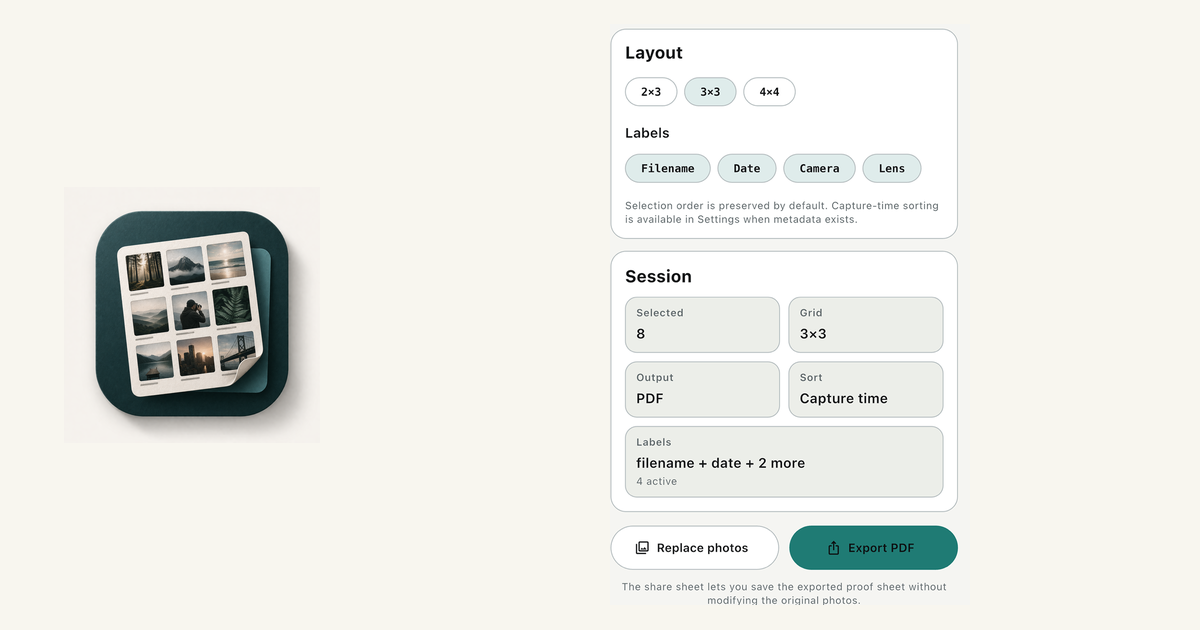
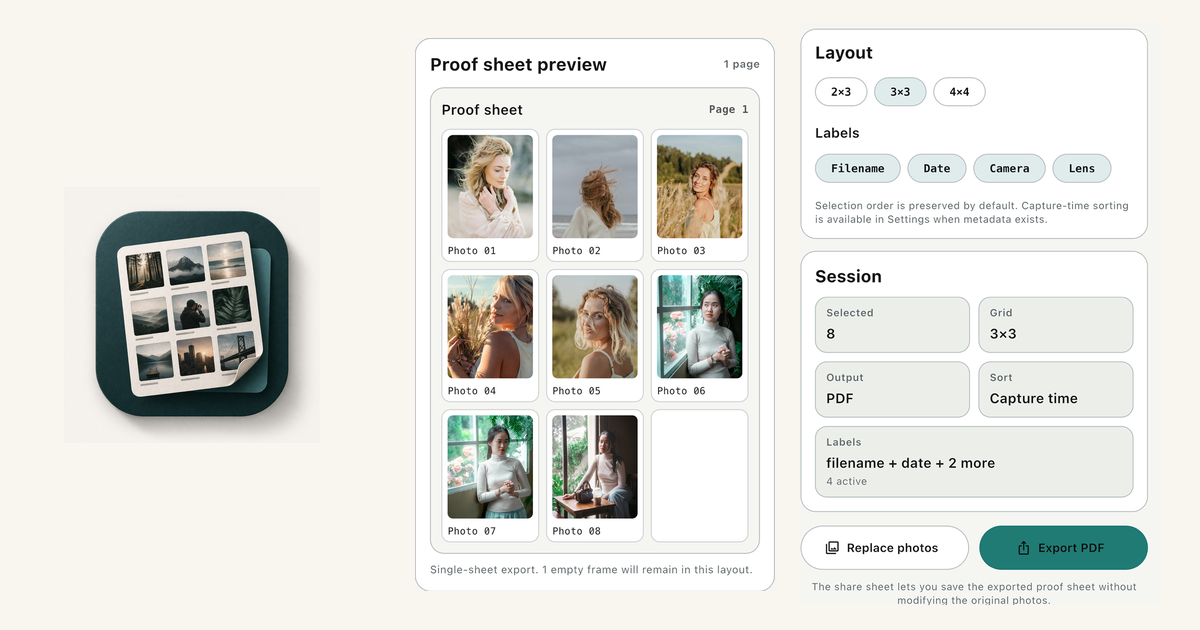
Add authentic Contact Sheet Maker output demonstration

diff --git a/index.html b/index.html
@@ -43,7 +43,7 @@
     </div>
   </header>
 
-  <main id="content" class="main"><div class="container"><section><div class="kicker">Monolyn Labs</div><h1>Practical apps for photos and everyday work.</h1><p class="lede">Make photo contact sheets, create printable lost-pet posters, and choose your best shots with focused iPhone apps. Explore each product, see real examples, and download on the App Store.</p><div class="chips" aria-label="Product principles"><span class="chip"><span class="chip-dot" aria-hidden="true"></span>Focused workflows</span><span class="chip"><span class="chip-dot" aria-hidden="true"></span>No ads</span><span class="chip"><span class="chip-dot" aria-hidden="true"></span>No third-party trackers</span></div><div class="actions"><a class="btn btn-primary" href="#featured">Explore iPhone apps</a><a class="btn btn-secondary" href="/products/">All products</a></div></section><section class="section" id="featured"><div class="section-head"><div><h2>Featured iPhone apps</h2><p>Focused tools that produce useful outputs.</p></div><a class="muted-link" href="/products/">Browse all products →</a></div><div class="grid"><article class="card glass strong"><div class="card-head"><div class="card-head-left"><img class="app-icon" src="/assets/products/contact-sheet-maker/icon.webp" width="44" height="44" alt="Contact Sheet Maker app icon" loading="lazy" decoding="async" /><div class="title"><a href="/products/contact-sheet-maker/" style="color: inherit; text-decoration: none;">Contact Sheet Maker</a></div></div><div class="badge live"><span class="dot" aria-hidden="true"></span>Available</div></div><p>Turn 6–36 selected photos into a clean proof sheet. Choose a grid, add labels, preview, then export PDF or JPEG with Pro.</p><div class="card-actions"><a class="btn btn-primary" href="/products/contact-sheet-maker/">Explore product</a><a class="btn btn-secondary" href="https://apps.apple.com/us/app/contact-sheet-maker/id6761720266" rel="noopener noreferrer">App Store</a></div></article><article class="card glass strong"><div class="card-head"><div class="card-head-left"><img class="app-icon" src="/assets/products/lost-pet-poster-maker/icon.webp" width="44" height="44" alt="Lost Pet Poster Maker app icon" loading="lazy" decoding="async" /><div class="title"><a href="/products/lost-pet-poster-maker/" style="color: inherit; text-decoration: none;">Lost Pet Poster Maker</a></div></div><div class="badge live"><span class="dot" aria-hidden="true"></span>Available</div></div><p>Create a missing-pet poster with a photo, last-seen details and contact information. Preview for free; PDF export and sharing require Pro.</p><a class="featured-preview" href="/products/lost-pet-poster-maker/#examples" aria-label="See the Lost Pet Poster Maker preview example"><img src="/assets/products/lost-pet-poster-maker/preview.webp" width="928" height="1263" alt="Lost Pet Poster Maker finished poster preview for Milo, with a dog photo and fictional contact details." loading="lazy" decoding="async" /></a><div class="card-actions"><a class="btn btn-primary" href="/products/lost-pet-poster-maker/">Explore product</a><a class="btn btn-secondary" href="https://apps.apple.com/us/app/lost-pet-poster-maker/id6777145276" rel="noopener noreferrer">App Store</a></div></article></div></section><section class="section"><div class="section-head"><div><h2>More photo tools</h2><p>Explore other available Monolyn apps.</p></div></div><div class="grid"><article class="card glass strong"><div class="card-head"><div class="card-head-left"><img class="app-icon" src="/assets/app-icons/grain_256.png" width="44" height="44" alt="" /><div class="title"><a href="https://apps.apple.com/us/app/film-grain-editor/id6755780302" style="color: inherit; text-decoration: none;">Film Grain Editor</a></div></div><div class="badge live"><span class="dot" aria-hidden="true"></span>Available</div></div><p>Apply film-grain presets and export a finished photo back to Photos.</p><div class="card-actions"><a class="btn btn-primary" href="https://apps.apple.com/us/app/film-grain-editor/id6755780302">Open in App Store</a></div></article><article class="card glass strong"><div class="card-head"><div class="card-head-left"><img class="app-icon" src="/assets/app-icons/best-shot_256.png" width="44" height="44" alt="" /><div class="title"><a href="/products/best-shot/" style="color: inherit; text-decoration: none;">Best Shot: Best Photo Picker</a></div></div><div class="badge live"><span class="dot" aria-hidden="true"></span>Available</div></div><p>Group similar photos, compare shots, and choose the keepers from each set.</p><div class="card-actions"><a class="btn btn-primary" href="/products/best-shot/">Explore product</a><a class="btn btn-secondary" href="https://apps.apple.com/us/app/best-shot-best-photo-picker/id6760355996" rel="noopener noreferrer">App Store</a></div></article><article class="card glass strong"><div class="card-head"><div class="card-head-left"><img class="app-icon" src="/assets/app-icons/trueportrait_256.png" width="44" height="44" alt="" /><div class="title"><a href="https://apps.apple.com/app/id6759202593" style="color: inherit; text-decoration: none;">True Portrait: Portrait Enhancer</a></div></div><div class="badge live"><span class="dot" aria-hidden="true"></span>Available</div></div><p>Focused local portrait enhancements with no required account or cloud upload.</p><div class="card-actions"><a class="btn btn-primary" href="https://apps.apple.com/app/id6759202593">Open in App Store</a></div></article></div></section><section class="section"><div class="section-head"><div><h2>Jira Cloud tools</h2><p>Jira tools for planning and delivery, separate from our consumer apps.</p></div></div><div class="grid"><article class="card glass"><div class="card-head"><div class="card-head-left"><img class="app-icon" src="/assets/app-icons/sprint-canvas_256.png" alt="" width="44" height="44" /><div class="title"><a href="/jira-sprint-capacity-planning/">Sprint Canvas for Jira</a></div></div><div class="badge live"><span class="dot" aria-hidden="true"></span>Available</div></div><p>Compare demand and capacity across three sprints inside Jira Cloud and spot missing estimates or assignments.</p><div class="card-actions"><a class="btn btn-primary" href="/jira-sprint-capacity-planning/">Overview</a><a class="btn btn-secondary" href="https://marketplace.atlassian.com/apps/186560902?tab=overview" rel="noopener noreferrer">Atlassian Marketplace</a></div></article></div></section><section class="section"><article class="glass strong cta-panel"><div class="kicker">Support and privacy</div><h2>Clear tools, clear support</h2><p>Find product guidance, privacy information and a direct way to ask for help.</p><div class="actions"><a class="btn btn-primary" href="/support/">Contact support</a><a class="btn btn-secondary" href="/privacy/">Privacy policy</a><a class="btn btn-secondary" href="/security/">Security</a></div></article></section></div></main>
+  <main id="content" class="main"><div class="container"><section><div class="kicker">Monolyn Labs</div><h1>Practical apps for photos and everyday work.</h1><p class="lede">Make photo contact sheets, create printable lost-pet posters, and choose your best shots with focused iPhone apps. Explore each product, see real examples, and download on the App Store.</p><div class="chips" aria-label="Product principles"><span class="chip"><span class="chip-dot" aria-hidden="true"></span>Focused workflows</span><span class="chip"><span class="chip-dot" aria-hidden="true"></span>No ads</span><span class="chip"><span class="chip-dot" aria-hidden="true"></span>No third-party trackers</span></div><div class="actions"><a class="btn btn-primary" href="#featured">Explore iPhone apps</a><a class="btn btn-secondary" href="/products/">All products</a></div></section><section class="section" id="featured"><div class="section-head"><div><h2>Featured iPhone apps</h2><p>Focused tools that produce useful outputs.</p></div><a class="muted-link" href="/products/">Browse all products →</a></div><div class="grid"><article class="card glass strong"><div class="card-head"><div class="card-head-left"><img class="app-icon" src="/assets/products/contact-sheet-maker/icon.webp" width="44" height="44" alt="Contact Sheet Maker app icon" loading="lazy" decoding="async" /><div class="title"><a href="/products/contact-sheet-maker/" style="color: inherit; text-decoration: none;">Contact Sheet Maker</a></div></div><div class="badge live"><span class="dot" aria-hidden="true"></span>Available</div></div><p>Turn 6–36 selected photos into a clean proof sheet. Choose a grid, add labels, preview, then export PDF or JPEG with Pro.</p><a class="featured-preview" href="/products/contact-sheet-maker/#examples" aria-label="See the Contact Sheet Maker preview example"><img src="/assets/products/contact-sheet-maker/preview.webp" width="786" height="1208" alt="Contact Sheet Maker proof sheet preview with eight demonstration portraits in a 3×3 grid and filename labels." loading="lazy" decoding="async" /></a><div class="card-actions"><a class="btn btn-primary" href="/products/contact-sheet-maker/">Explore product</a><a class="btn btn-secondary" href="https://apps.apple.com/us/app/contact-sheet-maker/id6761720266" rel="noopener noreferrer">App Store</a></div></article><article class="card glass strong"><div class="card-head"><div class="card-head-left"><img class="app-icon" src="/assets/products/lost-pet-poster-maker/icon.webp" width="44" height="44" alt="Lost Pet Poster Maker app icon" loading="lazy" decoding="async" /><div class="title"><a href="/products/lost-pet-poster-maker/" style="color: inherit; text-decoration: none;">Lost Pet Poster Maker</a></div></div><div class="badge live"><span class="dot" aria-hidden="true"></span>Available</div></div><p>Create a missing-pet poster with a photo, last-seen details and contact information. Preview for free; PDF export and sharing require Pro.</p><a class="featured-preview" href="/products/lost-pet-poster-maker/#examples" aria-label="See the Lost Pet Poster Maker preview example"><img src="/assets/products/lost-pet-poster-maker/preview.webp" width="928" height="1263" alt="Lost Pet Poster Maker finished poster preview for Milo, with a dog photo and fictional contact details." loading="lazy" decoding="async" /></a><div class="card-actions"><a class="btn btn-primary" href="/products/lost-pet-poster-maker/">Explore product</a><a class="btn btn-secondary" href="https://apps.apple.com/us/app/lost-pet-poster-maker/id6777145276" rel="noopener noreferrer">App Store</a></div></article></div></section><section class="section"><div class="section-head"><div><h2>More photo tools</h2><p>Explore other available Monolyn apps.</p></div></div><div class="grid"><article class="card glass strong"><div class="card-head"><div class="card-head-left"><img class="app-icon" src="/assets/app-icons/grain_256.png" width="44" height="44" alt="" /><div class="title"><a href="https://apps.apple.com/us/app/film-grain-editor/id6755780302" style="color: inherit; text-decoration: none;">Film Grain Editor</a></div></div><div class="badge live"><span class="dot" aria-hidden="true"></span>Available</div></div><p>Apply film-grain presets and export a finished photo back to Photos.</p><div class="card-actions"><a class="btn btn-primary" href="https://apps.apple.com/us/app/film-grain-editor/id6755780302">Open in App Store</a></div></article><article class="card glass strong"><div class="card-head"><div class="card-head-left"><img class="app-icon" src="/assets/app-icons/best-shot_256.png" width="44" height="44" alt="" /><div class="title"><a href="/products/best-shot/" style="color: inherit; text-decoration: none;">Best Shot: Best Photo Picker</a></div></div><div class="badge live"><span class="dot" aria-hidden="true"></span>Available</div></div><p>Group similar photos, compare shots, and choose the keepers from each set.</p><div class="card-actions"><a class="btn btn-primary" href="/products/best-shot/">Explore product</a><a class="btn btn-secondary" href="https://apps.apple.com/us/app/best-shot-best-photo-picker/id6760355996" rel="noopener noreferrer">App Store</a></div></article><article class="card glass strong"><div class="card-head"><div class="card-head-left"><img class="app-icon" src="/assets/app-icons/trueportrait_256.png" width="44" height="44" alt="" /><div class="title"><a href="https://apps.apple.com/app/id6759202593" style="color: inherit; text-decoration: none;">True Portrait: Portrait Enhancer</a></div></div><div class="badge live"><span class="dot" aria-hidden="true"></span>Available</div></div><p>Focused local portrait enhancements with no required account or cloud upload.</p><div class="card-actions"><a class="btn btn-primary" href="https://apps.apple.com/app/id6759202593">Open in App Store</a></div></article></div></section><section class="section"><div class="section-head"><div><h2>Jira Cloud tools</h2><p>Jira tools for planning and delivery, separate from our consumer apps.</p></div></div><div class="grid"><article class="card glass"><div class="card-head"><div class="card-head-left"><img class="app-icon" src="/assets/app-icons/sprint-canvas_256.png" alt="" width="44" height="44" /><div class="title"><a href="/jira-sprint-capacity-planning/">Sprint Canvas for Jira</a></div></div><div class="badge live"><span class="dot" aria-hidden="true"></span>Available</div></div><p>Compare demand and capacity across three sprints inside Jira Cloud and spot missing estimates or assignments.</p><div class="card-actions"><a class="btn btn-primary" href="/jira-sprint-capacity-planning/">Overview</a><a class="btn btn-secondary" href="https://marketplace.atlassian.com/apps/186560902?tab=overview" rel="noopener noreferrer">Atlassian Marketplace</a></div></article></div></section><section class="section"><article class="glass strong cta-panel"><div class="kicker">Support and privacy</div><h2>Clear tools, clear support</h2><p>Find product guidance, privacy information and a direct way to ask for help.</p><div class="actions"><a class="btn btn-primary" href="/support/">Contact support</a><a class="btn btn-secondary" href="/privacy/">Privacy policy</a><a class="btn btn-secondary" href="/security/">Security</a></div></article></section></div></main>
 
 <footer class="site-footer">
     <div class="container footer-inner">

diff --git a/products/index.html b/products/index.html
@@ -43,7 +43,7 @@
     </div>
   </header>
 
-  <main id="content" class="main"><div class="container"><section><div class="kicker">Products</div><h1>Explore Monolyn apps</h1><p class="lede">Focused iPhone and Jira Cloud tools for photo, document and planning workflows. Learn about a product before opening its marketplace listing.</p><div class="chips" aria-label="Product principles"><span class="chip"><span class="chip-dot" aria-hidden="true"></span>No ads</span><span class="chip"><span class="chip-dot" aria-hidden="true"></span>No third-party trackers</span><span class="chip"><span class="chip-dot" aria-hidden="true"></span>Direct support</span></div></section><section class="section" ><div class="section-head"><div><h2>Featured iPhone apps</h2><p>Focused tools that produce useful outputs.</p></div><a class="muted-link" href="/products/">Browse all products →</a></div><div class="grid"><article class="card glass strong"><div class="card-head"><div class="card-head-left"><img class="app-icon" src="/assets/products/contact-sheet-maker/icon.webp" width="44" height="44" alt="Contact Sheet Maker app icon" loading="lazy" decoding="async" /><div class="title"><a href="/products/contact-sheet-maker/" style="color: inherit; text-decoration: none;">Contact Sheet Maker</a></div></div><div class="badge live"><span class="dot" aria-hidden="true"></span>Available</div></div><p>Turn 6–36 selected photos into a clean proof sheet. Choose a grid, add labels, preview, then export PDF or JPEG with Pro.</p><div class="card-actions"><a class="btn btn-primary" href="/products/contact-sheet-maker/">Explore product</a><a class="btn btn-secondary" href="https://apps.apple.com/us/app/contact-sheet-maker/id6761720266" rel="noopener noreferrer">App Store</a></div></article><article class="card glass strong"><div class="card-head"><div class="card-head-left"><img class="app-icon" src="/assets/products/lost-pet-poster-maker/icon.webp" width="44" height="44" alt="Lost Pet Poster Maker app icon" loading="lazy" decoding="async" /><div class="title"><a href="/products/lost-pet-poster-maker/" style="color: inherit; text-decoration: none;">Lost Pet Poster Maker</a></div></div><div class="badge live"><span class="dot" aria-hidden="true"></span>Available</div></div><p>Create a missing-pet poster with a photo, last-seen details and contact information. Preview for free; PDF export and sharing require Pro.</p><a class="featured-preview" href="/products/lost-pet-poster-maker/#examples" aria-label="See the Lost Pet Poster Maker preview example"><img src="/assets/products/lost-pet-poster-maker/preview.webp" width="928" height="1263" alt="Lost Pet Poster Maker finished poster preview for Milo, with a dog photo and fictional contact details." loading="lazy" decoding="async" /></a><div class="card-actions"><a class="btn btn-primary" href="/products/lost-pet-poster-maker/">Explore product</a><a class="btn btn-secondary" href="https://apps.apple.com/us/app/lost-pet-poster-maker/id6777145276" rel="noopener noreferrer">App Store</a></div></article></div></section><section class="section"><div class="section-head"><div><h2>More photo tools</h2><p>Explore other available Monolyn apps.</p></div></div><div class="grid"><article class="card glass strong"><div class="card-head"><div class="card-head-left"><img class="app-icon" src="/assets/app-icons/grain_256.png" width="44" height="44" alt="" /><div class="title"><a href="https://apps.apple.com/us/app/film-grain-editor/id6755780302" style="color: inherit; text-decoration: none;">Film Grain Editor</a></div></div><div class="badge live"><span class="dot" aria-hidden="true"></span>Available</div></div><p>Apply film-grain presets and export a finished photo back to Photos.</p><div class="card-actions"><a class="btn btn-primary" href="https://apps.apple.com/us/app/film-grain-editor/id6755780302">Open in App Store</a></div></article><article class="card glass strong"><div class="card-head"><div class="card-head-left"><img class="app-icon" src="/assets/app-icons/best-shot_256.png" width="44" height="44" alt="" /><div class="title"><a href="/products/best-shot/" style="color: inherit; text-decoration: none;">Best Shot: Best Photo Picker</a></div></div><div class="badge live"><span class="dot" aria-hidden="true"></span>Available</div></div><p>Group similar photos, compare shots, and choose the keepers from each set.</p><div class="card-actions"><a class="btn btn-primary" href="/products/best-shot/">Explore product</a><a class="btn btn-secondary" href="https://apps.apple.com/us/app/best-shot-best-photo-picker/id6760355996" rel="noopener noreferrer">App Store</a></div></article><article class="card glass strong"><div class="card-head"><div class="card-head-left"><img class="app-icon" src="/assets/app-icons/trueportrait_256.png" width="44" height="44" alt="" /><div class="title"><a href="https://apps.apple.com/app/id6759202593" style="color: inherit; text-decoration: none;">True Portrait: Portrait Enhancer</a></div></div><div class="badge live"><span class="dot" aria-hidden="true"></span>Available</div></div><p>Focused local portrait enhancements with no required account or cloud upload.</p><div class="card-actions"><a class="btn btn-primary" href="https://apps.apple.com/app/id6759202593">Open in App Store</a></div></article></div></section><section class="section"><div class="section-head"><div><h2>Jira Cloud tools</h2><p>Jira tools for planning and delivery, separate from our consumer apps.</p></div></div><div class="grid"><article class="card glass"><div class="card-head"><div class="card-head-left"><img class="app-icon" src="/assets/app-icons/sprint-canvas_256.png" alt="" width="44" height="44" /><div class="title"><a href="/jira-sprint-capacity-planning/">Sprint Canvas for Jira</a></div></div><div class="badge live"><span class="dot" aria-hidden="true"></span>Available</div></div><p>Compare demand and capacity across three sprints inside Jira Cloud and spot missing estimates or assignments.</p><div class="card-actions"><a class="btn btn-primary" href="/jira-sprint-capacity-planning/">Overview</a><a class="btn btn-secondary" href="https://marketplace.atlassian.com/apps/186560902?tab=overview" rel="noopener noreferrer">Atlassian Marketplace</a></div></article></div></section><section class="section"><div class="note glass"><p>App Store prices and availability vary by region. Other apps may be available through the developer's public App Store profile.</p></div></section></div></main>
+  <main id="content" class="main"><div class="container"><section><div class="kicker">Products</div><h1>Explore Monolyn apps</h1><p class="lede">Focused iPhone and Jira Cloud tools for photo, document and planning workflows. Learn about a product before opening its marketplace listing.</p><div class="chips" aria-label="Product principles"><span class="chip"><span class="chip-dot" aria-hidden="true"></span>No ads</span><span class="chip"><span class="chip-dot" aria-hidden="true"></span>No third-party trackers</span><span class="chip"><span class="chip-dot" aria-hidden="true"></span>Direct support</span></div></section><section class="section" ><div class="section-head"><div><h2>Featured iPhone apps</h2><p>Focused tools that produce useful outputs.</p></div><a class="muted-link" href="/products/">Browse all products →</a></div><div class="grid"><article class="card glass strong"><div class="card-head"><div class="card-head-left"><img class="app-icon" src="/assets/products/contact-sheet-maker/icon.webp" width="44" height="44" alt="Contact Sheet Maker app icon" loading="lazy" decoding="async" /><div class="title"><a href="/products/contact-sheet-maker/" style="color: inherit; text-decoration: none;">Contact Sheet Maker</a></div></div><div class="badge live"><span class="dot" aria-hidden="true"></span>Available</div></div><p>Turn 6–36 selected photos into a clean proof sheet. Choose a grid, add labels, preview, then export PDF or JPEG with Pro.</p><a class="featured-preview" href="/products/contact-sheet-maker/#examples" aria-label="See the Contact Sheet Maker preview example"><img src="/assets/products/contact-sheet-maker/preview.webp" width="786" height="1208" alt="Contact Sheet Maker proof sheet preview with eight demonstration portraits in a 3×3 grid and filename labels." loading="lazy" decoding="async" /></a><div class="card-actions"><a class="btn btn-primary" href="/products/contact-sheet-maker/">Explore product</a><a class="btn btn-secondary" href="https://apps.apple.com/us/app/contact-sheet-maker/id6761720266" rel="noopener noreferrer">App Store</a></div></article><article class="card glass strong"><div class="card-head"><div class="card-head-left"><img class="app-icon" src="/assets/products/lost-pet-poster-maker/icon.webp" width="44" height="44" alt="Lost Pet Poster Maker app icon" loading="lazy" decoding="async" /><div class="title"><a href="/products/lost-pet-poster-maker/" style="color: inherit; text-decoration: none;">Lost Pet Poster Maker</a></div></div><div class="badge live"><span class="dot" aria-hidden="true"></span>Available</div></div><p>Create a missing-pet poster with a photo, last-seen details and contact information. Preview for free; PDF export and sharing require Pro.</p><a class="featured-preview" href="/products/lost-pet-poster-maker/#examples" aria-label="See the Lost Pet Poster Maker preview example"><img src="/assets/products/lost-pet-poster-maker/preview.webp" width="928" height="1263" alt="Lost Pet Poster Maker finished poster preview for Milo, with a dog photo and fictional contact details." loading="lazy" decoding="async" /></a><div class="card-actions"><a class="btn btn-primary" href="/products/lost-pet-poster-maker/">Explore product</a><a class="btn btn-secondary" href="https://apps.apple.com/us/app/lost-pet-poster-maker/id6777145276" rel="noopener noreferrer">App Store</a></div></article></div></section><section class="section"><div class="section-head"><div><h2>More photo tools</h2><p>Explore other available Monolyn apps.</p></div></div><div class="grid"><article class="card glass strong"><div class="card-head"><div class="card-head-left"><img class="app-icon" src="/assets/app-icons/grain_256.png" width="44" height="44" alt="" /><div class="title"><a href="https://apps.apple.com/us/app/film-grain-editor/id6755780302" style="color: inherit; text-decoration: none;">Film Grain Editor</a></div></div><div class="badge live"><span class="dot" aria-hidden="true"></span>Available</div></div><p>Apply film-grain presets and export a finished photo back to Photos.</p><div class="card-actions"><a class="btn btn-primary" href="https://apps.apple.com/us/app/film-grain-editor/id6755780302">Open in App Store</a></div></article><article class="card glass strong"><div class="card-head"><div class="card-head-left"><img class="app-icon" src="/assets/app-icons/best-shot_256.png" width="44" height="44" alt="" /><div class="title"><a href="/products/best-shot/" style="color: inherit; text-decoration: none;">Best Shot: Best Photo Picker</a></div></div><div class="badge live"><span class="dot" aria-hidden="true"></span>Available</div></div><p>Group similar photos, compare shots, and choose the keepers from each set.</p><div class="card-actions"><a class="btn btn-primary" href="/products/best-shot/">Explore product</a><a class="btn btn-secondary" href="https://apps.apple.com/us/app/best-shot-best-photo-picker/id6760355996" rel="noopener noreferrer">App Store</a></div></article><article class="card glass strong"><div class="card-head"><div class="card-head-left"><img class="app-icon" src="/assets/app-icons/trueportrait_256.png" width="44" height="44" alt="" /><div class="title"><a href="https://apps.apple.com/app/id6759202593" style="color: inherit; text-decoration: none;">True Portrait: Portrait Enhancer</a></div></div><div class="badge live"><span class="dot" aria-hidden="true"></span>Available</div></div><p>Focused local portrait enhancements with no required account or cloud upload.</p><div class="card-actions"><a class="btn btn-primary" href="https://apps.apple.com/app/id6759202593">Open in App Store</a></div></article></div></section><section class="section"><div class="section-head"><div><h2>Jira Cloud tools</h2><p>Jira tools for planning and delivery, separate from our consumer apps.</p></div></div><div class="grid"><article class="card glass"><div class="card-head"><div class="card-head-left"><img class="app-icon" src="/assets/app-icons/sprint-canvas_256.png" alt="" width="44" height="44" /><div class="title"><a href="/jira-sprint-capacity-planning/">Sprint Canvas for Jira</a></div></div><div class="badge live"><span class="dot" aria-hidden="true"></span>Available</div></div><p>Compare demand and capacity across three sprints inside Jira Cloud and spot missing estimates or assignments.</p><div class="card-actions"><a class="btn btn-primary" href="/jira-sprint-capacity-planning/">Overview</a><a class="btn btn-secondary" href="https://marketplace.atlassian.com/apps/186560902?tab=overview" rel="noopener noreferrer">Atlassian Marketplace</a></div></article></div></section><section class="section"><div class="note glass"><p>App Store prices and availability vary by region. Other apps may be available through the developer's public App Store profile.</p></div></section></div></main>
 
 <footer class="site-footer">
     <div class="container footer-inner">

diff --git a/products/contact-sheet-maker/index.html b/products/contact-sheet-maker/index.html
@@ -44,7 +44,7 @@
     </div>
   </header>
 
-  <main id="content" class="main"><div class="container"><section class="landing-hero"><div class="hero-copy"><img class="product-mark" src="/assets/products/contact-sheet-maker/icon.webp" width="72" height="72" alt="Contact Sheet Maker app icon" loading="eager" decoding="async" /><div class="kicker">Contact Sheet Maker · iPhone app</div><div class="badge live" style="margin-bottom: var(--s2);"><span class="dot" aria-hidden="true"></span>Available on the App Store</div><h1>Make clean photo contact sheets in minutes</h1><p class="lede">Select 6–36 photos, choose a grid, add filename or camera labels, and preview a contact sheet. Contact Sheet Maker Pro unlocks PDF and JPEG export.</p><div class="actions"><a class="btn btn-primary" href="https://apps.apple.com/us/app/contact-sheet-maker/id6761720266" rel="noopener noreferrer">Download on the App Store</a><a class="btn btn-secondary" href="/products/">All products</a></div><p class="micro-proof">For iPhone. Features and in-app purchase prices may vary by region.</p></div><div class="landing-shot glass strong"><div class="kicker">How it works</div><div class="bestshot-flow"><div class="bestshot-step"><div class="bestshot-step-index">01</div><div class="bestshot-step-title">Select</div><p class="bestshot-step-copy">Pick 6–36 photos to include.</p></div><div class="bestshot-step"><div class="bestshot-step-index">02</div><div class="bestshot-step-title">Arrange</div><p class="bestshot-step-copy">Choose a grid and optional labels.</p></div><div class="bestshot-step"><div class="bestshot-step-index">03</div><div class="bestshot-step-title">Export</div><p class="bestshot-step-copy">Preview for free; Pro unlocks PDF and JPEG output.</p></div></div><p class="inline-note" style="margin-top: var(--s2);">Workflow summary. Actual screenshots are available on the official App Store listing.</p></div></section><section class="section" id="examples"><div class="section-head"><div><h2>See the app in use</h2><p>Genuine published App Store captures. Open an image for a closer look.</p></div></div><div class="bestshot-screenshot-grid"><figure class="glass bestshot-screenshot-card authentic-screen"><a class="bestshot-screenshot-media" href="/assets/products/contact-sheet-maker/workflow.webp" aria-label="Open full-size Contact Sheet Maker choose a grid and labels"><img src="/assets/products/contact-sheet-maker/workflow.webp" width="777" height="1255" alt="Contact Sheet Maker layout controls showing 2×3, 3×3 and 4×4 grids, label toggles and the export action." loading="lazy" decoding="async" /></a><figcaption class="bestshot-screenshot-copy"><span class="bestshot-screenshot-title">Choose a grid and labels</span><p>Actual layout, label and export controls in the published app. Preview is free; Pro unlocks export.</p></figcaption></figure></div></section><section class="section"><div class="section-head"><div><h2>What you can do</h2><p>Focused features for a useful result.</p></div></div><div class="grid"><article class="card glass feature-card"><h3>Proof sheets for review</h3><p>Build photo contact sheets for review, archiving or client handoff.</p></article><article class="card glass feature-card"><h3>Useful metadata labels</h3><p>Show filename, date, camera or lens metadata when available.</p></article><article class="card glass feature-card"><h3>PDF and JPEG output</h3><p>Export and share finished sheets with the Pro upgrade.</p></article><article class="card glass feature-card"><h3>No account required</h3><p>Create proof sheets without signing up. Original photos are not overwritten.</p></article></div></section><section class="section"><div class="section-head"><div><h2>Frequently asked questions</h2></div></div><div class="faq-grid"><details class="glass faq-item" open><summary>Can I preview before paying?</summary><p>Yes. Import your photos, arrange them and preview your contact sheet for free. Pro is required to export.</p></details><details class="glass faq-item"><summary>How many photos can I select?</summary><p>The app currently supports 6–36 photos per sheet.</p></details><details class="glass faq-item"><summary>Does the app change original photos?</summary><p>No. It generates new outputs without overwriting your source photos.</p></details><details class="glass faq-item"><summary>What can Pro export?</summary><p>Pro enables PDF and JPEG export, sharing, saving, and printing generated proof sheets.</p></details></div></section><section class="section"><article class="glass strong cta-panel"><div class="kicker">Contact Sheet Maker</div><h2>Ready to try it?</h2><p>Visit the official App Store listing for local availability, features and purchase details.</p><div class="actions"><a class="btn btn-primary" href="https://apps.apple.com/us/app/contact-sheet-maker/id6761720266" rel="noopener noreferrer">View on the App Store</a><a class="btn btn-secondary" href="/support/">Support</a><a class="btn btn-secondary" href="/privacy/">Privacy</a></div></article></section></div></main>
+  <main id="content" class="main"><div class="container"><section class="landing-hero"><div class="hero-copy"><img class="product-mark" src="/assets/products/contact-sheet-maker/icon.webp" width="72" height="72" alt="Contact Sheet Maker app icon" loading="eager" decoding="async" /><div class="kicker">Contact Sheet Maker · iPhone app</div><div class="badge live" style="margin-bottom: var(--s2);"><span class="dot" aria-hidden="true"></span>Available on the App Store</div><h1>Make clean photo contact sheets in minutes</h1><p class="lede">Select 6–36 photos, choose a grid, add filename or camera labels, and preview a contact sheet. Contact Sheet Maker Pro unlocks PDF and JPEG export.</p><div class="actions"><a class="btn btn-primary" href="https://apps.apple.com/us/app/contact-sheet-maker/id6761720266" rel="noopener noreferrer">Download on the App Store</a><a class="btn btn-secondary" href="/products/">All products</a></div><p class="micro-proof">For iPhone. Features and in-app purchase prices may vary by region.</p></div><div class="landing-shot glass strong"><div class="kicker">How it works</div><div class="bestshot-flow"><div class="bestshot-step"><div class="bestshot-step-index">01</div><div class="bestshot-step-title">Select</div><p class="bestshot-step-copy">Pick 6–36 photos to include.</p></div><div class="bestshot-step"><div class="bestshot-step-index">02</div><div class="bestshot-step-title">Arrange</div><p class="bestshot-step-copy">Choose a grid and optional labels.</p></div><div class="bestshot-step"><div class="bestshot-step-index">03</div><div class="bestshot-step-title">Export</div><p class="bestshot-step-copy">Preview for free; Pro unlocks PDF and JPEG output.</p></div></div><p class="inline-note" style="margin-top: var(--s2);">Workflow summary. Actual screenshots are available on the official App Store listing.</p></div></section><section class="section" id="examples"><div class="section-head"><div><h2>See the app in use</h2><p>Genuine published App Store captures. Open an image for a closer look.</p></div></div><div class="bestshot-screenshot-grid"><figure class="glass bestshot-screenshot-card authentic-screen"><a class="bestshot-screenshot-media" href="/assets/products/contact-sheet-maker/preview.webp" aria-label="Open full-size Contact Sheet Maker labeled proof sheet preview"><img src="/assets/products/contact-sheet-maker/preview.webp" width="786" height="1208" alt="Contact Sheet Maker proof sheet preview with eight demonstration portraits in a 3×3 grid and filename labels." loading="lazy" decoding="async" /></a><figcaption class="bestshot-screenshot-copy"><span class="bestshot-screenshot-title">Labeled proof sheet preview</span><p>Example contact sheet created with Contact Sheet Maker. Demonstration photos from Pexels. Preview is free; Pro unlocks export.</p></figcaption></figure><figure class="glass bestshot-screenshot-card authentic-screen"><a class="bestshot-screenshot-media" href="/assets/products/contact-sheet-maker/workflow.webp" aria-label="Open full-size Contact Sheet Maker choose a grid and labels"><img src="/assets/products/contact-sheet-maker/workflow.webp" width="777" height="1255" alt="Contact Sheet Maker layout controls showing 2×3, 3×3 and 4×4 grids, label toggles and the export action." loading="lazy" decoding="async" /></a><figcaption class="bestshot-screenshot-copy"><span class="bestshot-screenshot-title">Choose a grid and labels</span><p>Actual layout, label and export controls in the published app. Preview is free; Pro unlocks export.</p></figcaption></figure></div></section><section class="section"><div class="section-head"><div><h2>What you can do</h2><p>Focused features for a useful result.</p></div></div><div class="grid"><article class="card glass feature-card"><h3>Proof sheets for review</h3><p>Build photo contact sheets for review, archiving or client handoff.</p></article><article class="card glass feature-card"><h3>Useful metadata labels</h3><p>Show filename, date, camera or lens metadata when available.</p></article><article class="card glass feature-card"><h3>PDF and JPEG output</h3><p>Export and share finished sheets with the Pro upgrade.</p></article><article class="card glass feature-card"><h3>No account required</h3><p>Create proof sheets without signing up. Original photos are not overwritten.</p></article></div></section><section class="section"><div class="section-head"><div><h2>Frequently asked questions</h2></div></div><div class="faq-grid"><details class="glass faq-item" open><summary>Can I preview before paying?</summary><p>Yes. Import your photos, arrange them and preview your contact sheet for free. Pro is required to export.</p></details><details class="glass faq-item"><summary>How many photos can I select?</summary><p>The app currently supports 6–36 photos per sheet.</p></details><details class="glass faq-item"><summary>Does the app change original photos?</summary><p>No. It generates new outputs without overwriting your source photos.</p></details><details class="glass faq-item"><summary>What can Pro export?</summary><p>Pro enables PDF and JPEG export, sharing, saving, and printing generated proof sheets.</p></details></div></section><section class="section"><article class="glass strong cta-panel"><div class="kicker">Contact Sheet Maker</div><h2>Ready to try it?</h2><p>Visit the official App Store listing for local availability, features and purchase details.</p><div class="actions"><a class="btn btn-primary" href="https://apps.apple.com/us/app/contact-sheet-maker/id6761720266" rel="noopener noreferrer">View on the App Store</a><a class="btn btn-secondary" href="/support/">Support</a><a class="btn btn-secondary" href="/privacy/">Privacy</a></div></article></section></div></main>
 
 <footer class="site-footer">
     <div class="container footer-inner">
